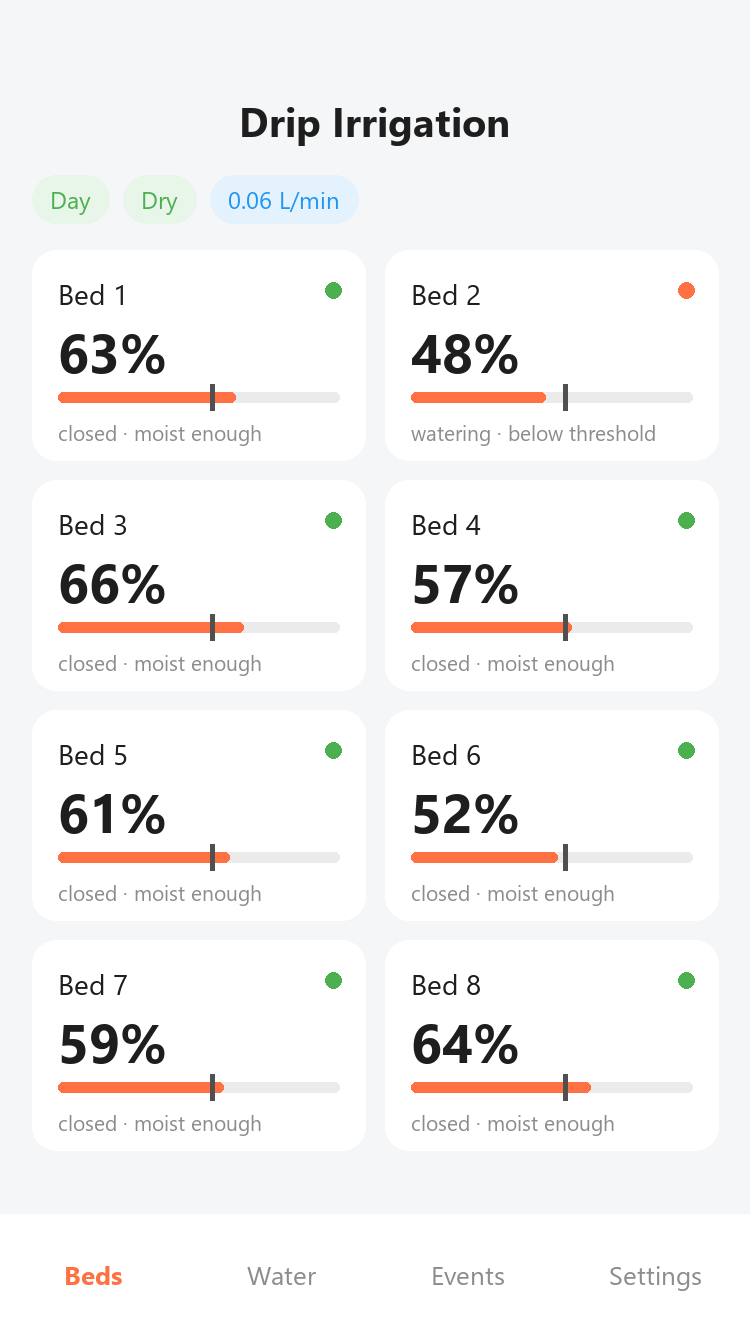
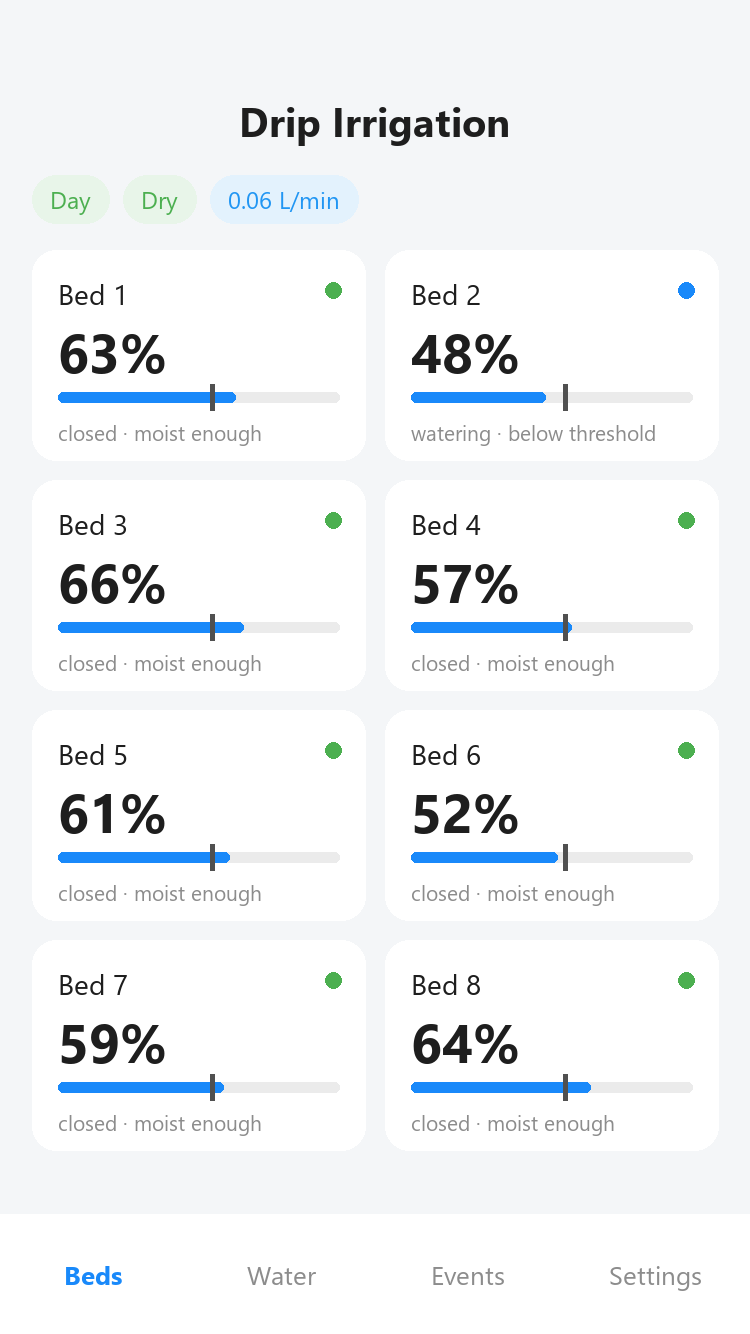
Превью: синий акцент, как в Smart Life (--app-M1), а не оранжевый из IDE

diff --git a/tools/gen_preview.py b/tools/gen_preview.py
@@ -20,7 +20,7 @@ BG = (244, 246, 248)
 CARD = (255, 255, 255)
 TEXT = (30, 30, 30)
 MUTED = (140, 140, 140)
-ACCENT = (255, 112, 67)       # @accent панели — оранжевый ползунок
+ACCENT = (25, 137, 250)       # @accent панели = --app-M1 темы Smart Life (синий #1989fa)
 OK = (76, 175, 80)
 WATER = (33, 150, 243)
 
